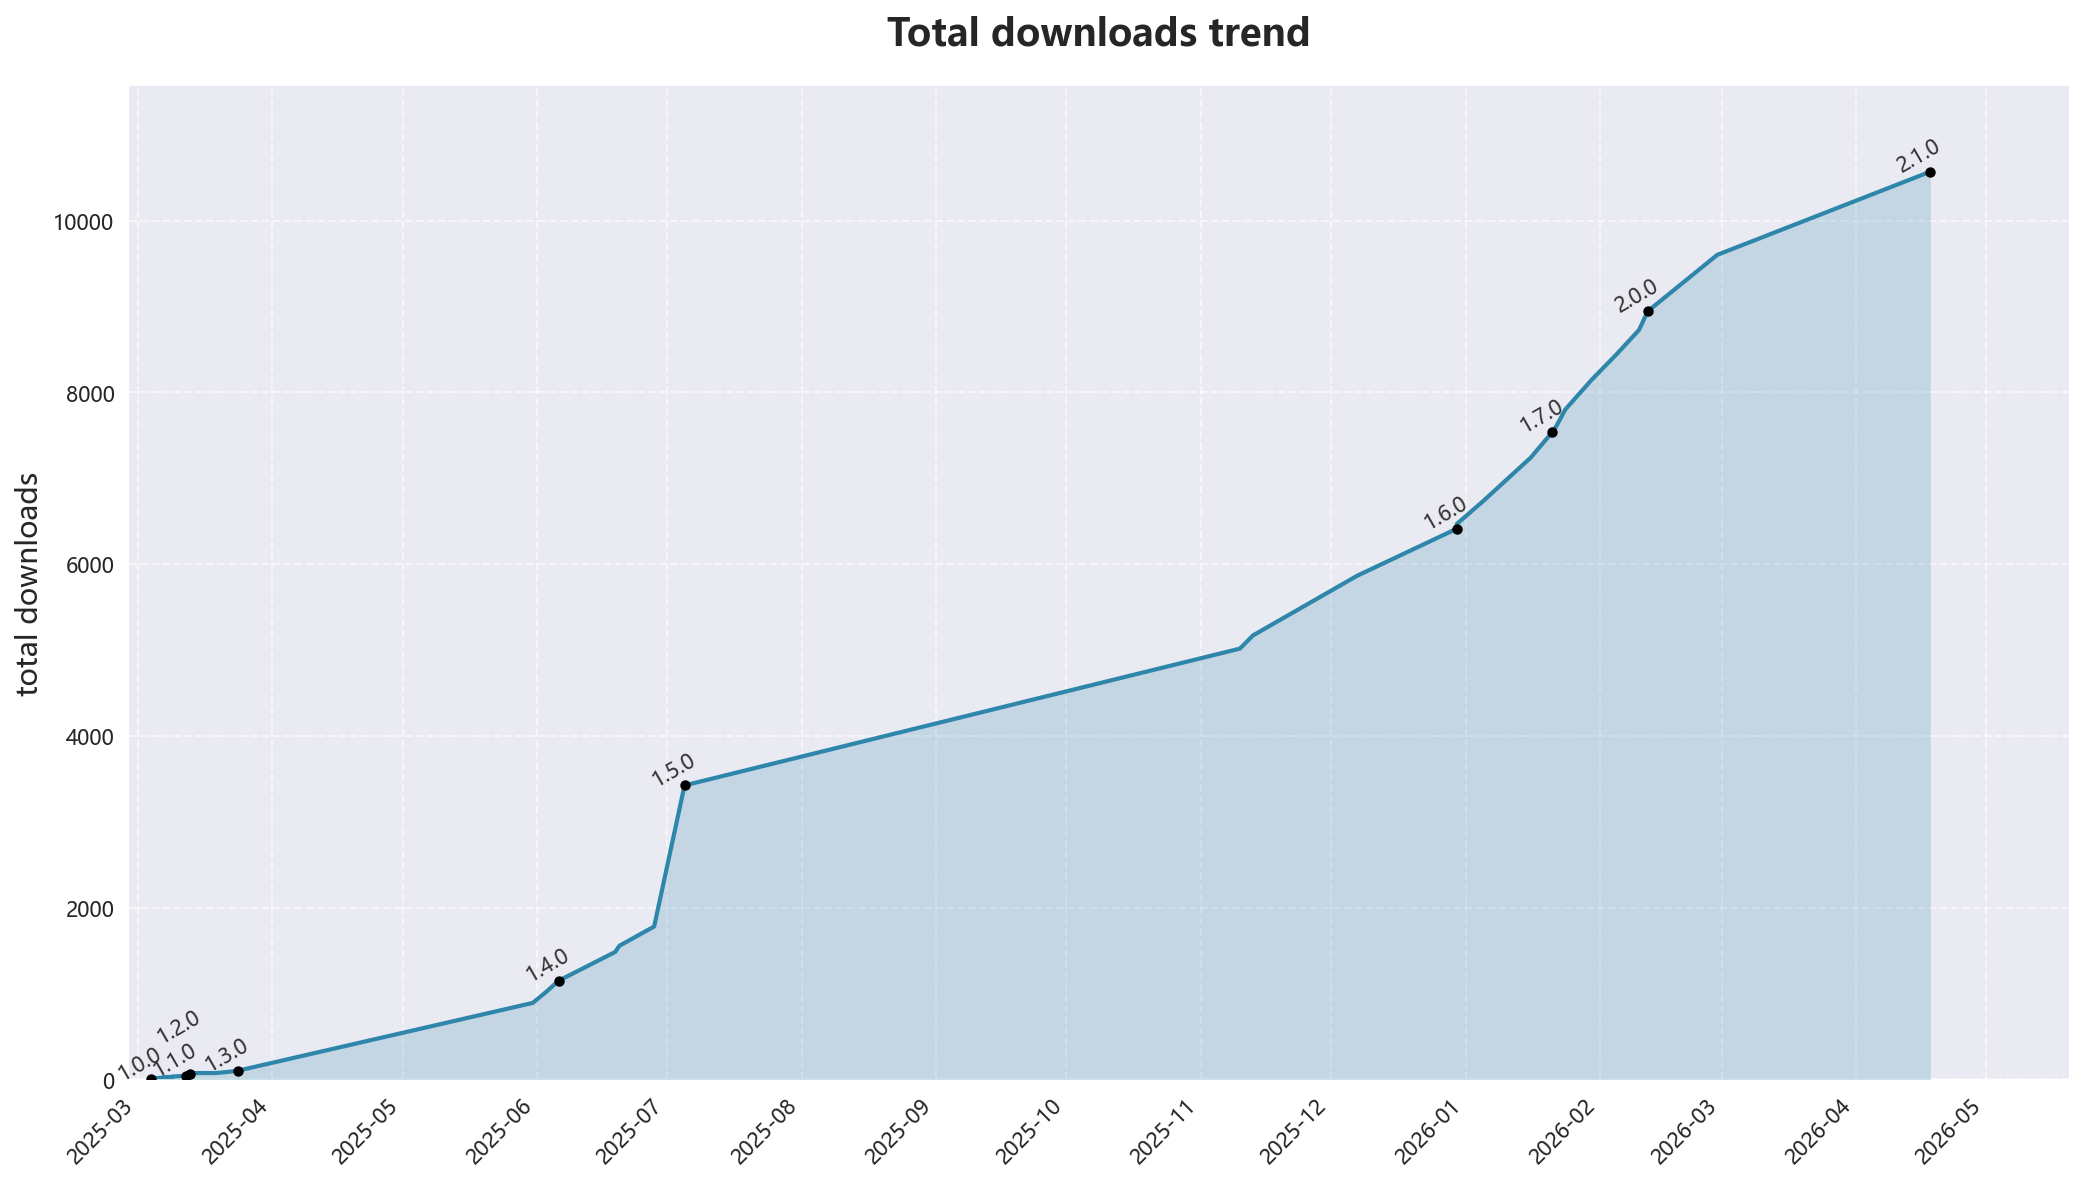
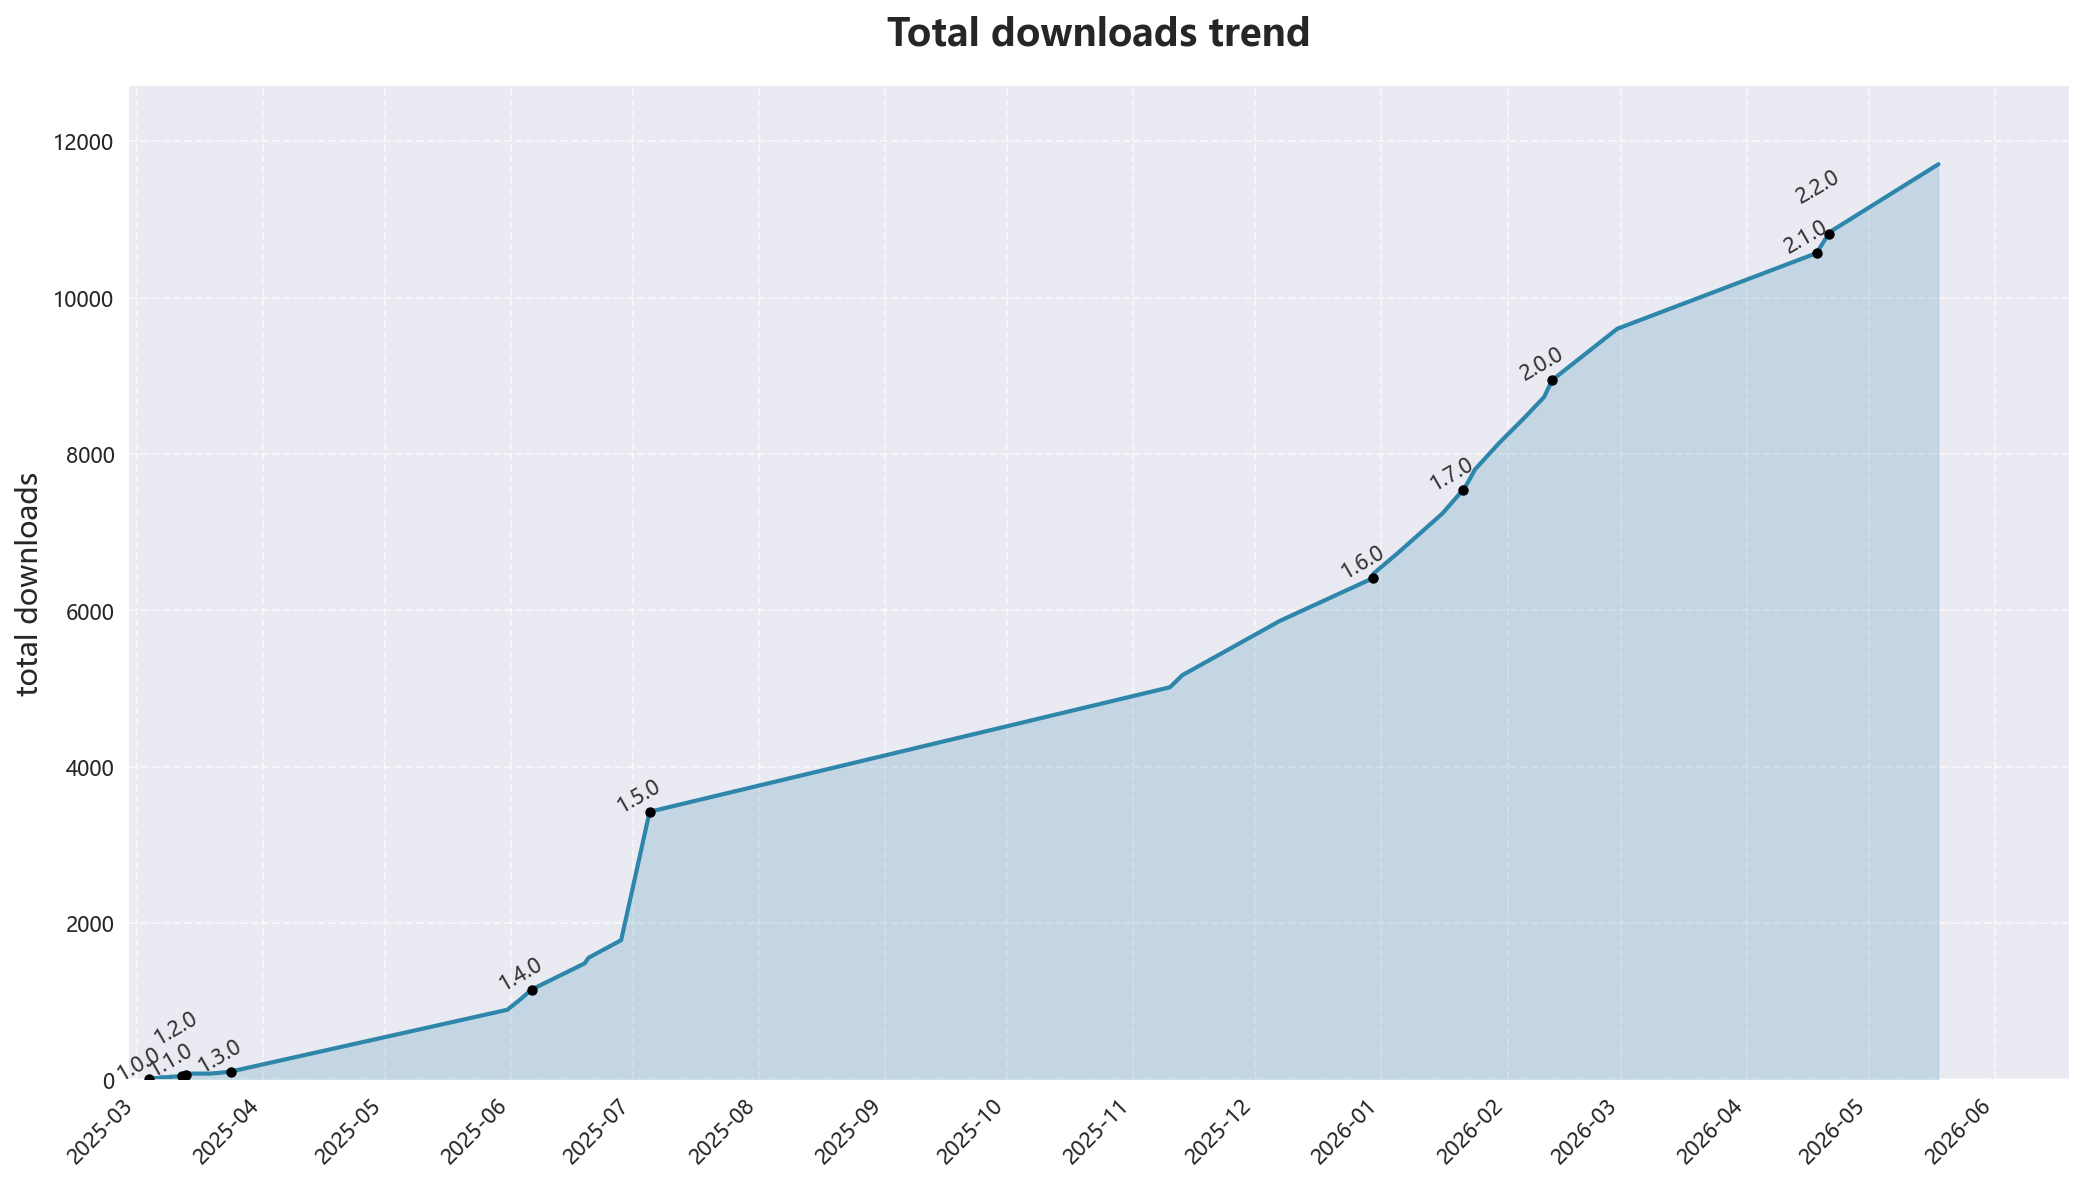
version update

diff --git a/src/changeLog.ts b/src/changeLog.ts
@@ -1,8 +1,17 @@
-export const currentPluginVersion = '2.2.1';
+export const currentPluginVersion = '2.2.2';
 
 export const changelog = {
 'en': 
 `
+### 2.2.2 updates
+🎨 **UI Optimization:**
+- Improved Heatmap color gradient generation logic.
+
+⚡ **Enhancements:**
+- Refactored core code structure for better maintainability and performance.
+- Optimized Widget property retrieval logic.
+- Enhanced i18n content processing.
+
 ### 2.2.1 updates
 🐛 **Bug Fixed:**
 - Syntax change only updated today's note: now scans the entire folder for all periodic notes matching the format and containing data in the old syntax, and updates them all.
@@ -104,6 +113,15 @@ export const changelog = {
 `,
 'zh-CN': 
 `
+### 2.2.2 更新说明
+🎨 **界面优化：**
+- 改进热力图颜色渐变生成逻辑。
+
+⚡ **功能强化：**
+- 重构核心代码结构，提升可维护性和性能。
+- 优化组件属性获取逻辑。
+- 增强国际化内容处理。
+
 ### 2.2.1 更新说明
 🐛 **问题修复：**
 - 语法变更仅更新今天的笔记：现会扫描整个文件夹中所有符合格式且包含旧语法数据的周期笔记，并全部更新。

diff --git a/miscellaneous/downloads-Trend.py b/miscellaneous/downloads-Trend.py
@@ -54,7 +54,10 @@ data = [
     ("2026-02-10", 217, "1.7.5"),
     ("2026-02-12", 656, "2.0.0"),
     ("2026-02-28", 967, "2.0.1"),
-    ("2026-04-18", 0, "2.1.0"),
+    ("2026-04-18", 249, "2.1.0"),
+    ("2026-04-21", 13, "2.2.0"),
+    ("2026-04-21", 876, "2.2.1"),
+    ("2026-05-18", 0, "2.2.2"),
 ]
 
 # --- [修改 1] 动态获取当前日期并追加到数据末尾 ---
@@ -102,7 +105,7 @@ for i in range(len(dates_plot)):
     if version.endswith('.0'):
         ax.annotate(f'{version}', 
                     xy=(date, cum_download), 
-                    xytext=(-5, 15) if version == "1.2.0" else (-5, 0), 
+                    xytext=(-5, 15) if (version == "1.2.0" or version == "2.2.0") else (-5, 0), 
                     textcoords='offset points',
                     fontsize=10,
                     color='#333333',

diff --git a/README.md b/README.md
@@ -127,7 +127,7 @@ See [Development Roadmap](https://github.com/LeCheenaX/WordFlow-Tracker/wiki/Dev
 
 Want to know how this project is built? Or wanna collaborate on this plugin? See details at https://deepwiki.com/LeCheenaX/WordFlow-Tracker
 
-![Downloads trend](https://github.com/LeCheenaX/WordFlow-Tracker/blob/main/miscellaneous/cumulative_downloads_trend.png)
+![Cumulative Downloads Trend](https://raw.githubusercontent.com/LeCheenaX/WordFlow-Tracker/main/miscellaneous/cumulative_downloads_trend.png)
 
 ## Installation
 ### Install in Obsidian

diff --git a/README_ZH_CN.md b/README_ZH_CN.md
@@ -129,7 +129,7 @@ WordFlow Tracker 是一个轻量级插件，可以跟踪每个笔记的专注时
 
 想了解这个项目是如何构建的？或者想在这个插件上合作？详见 https://deepwiki.com/LeCheenaX/WordFlow-Tracker
 
-![下载量趋势](https://github.com/LeCheenaX/WordFlow-Tracker/blob/main/miscellaneous/cumulative_downloads_trend.png)
+![下载量趋势](https://raw.githubusercontent.com/LeCheenaX/WordFlow-Tracker/main/miscellaneous/cumulative_downloads_trend.png)
 
 ## 安装
 ### 在 Obsidian 中安装